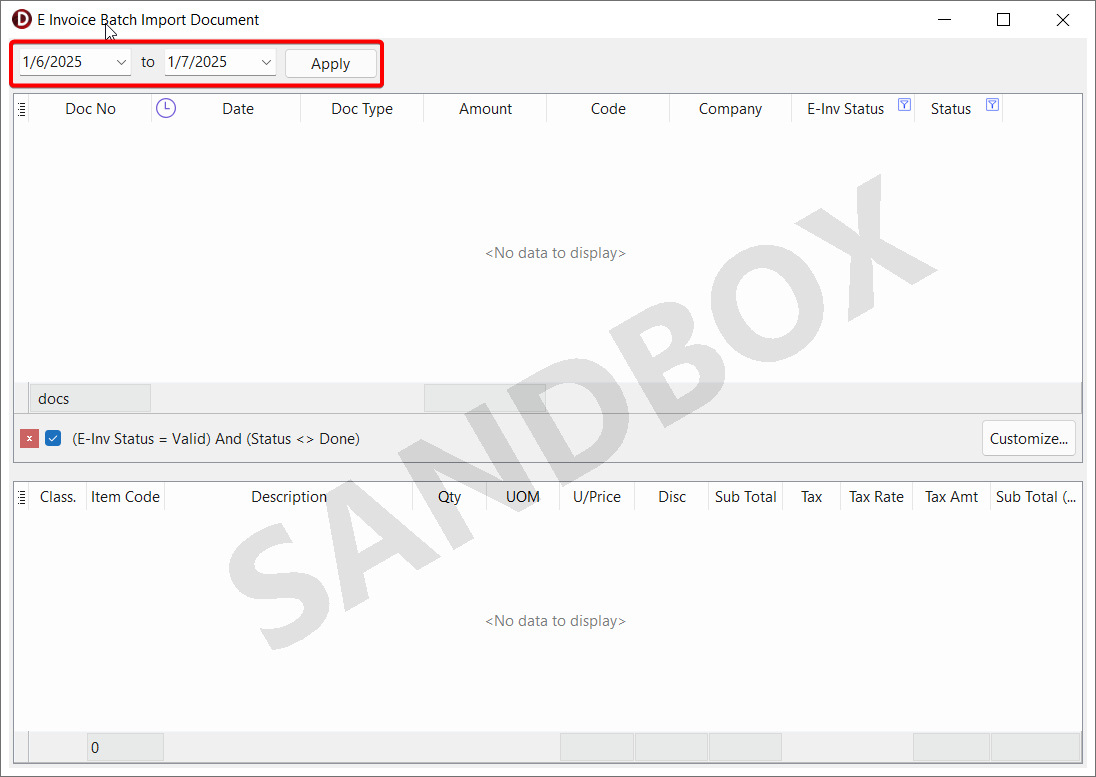
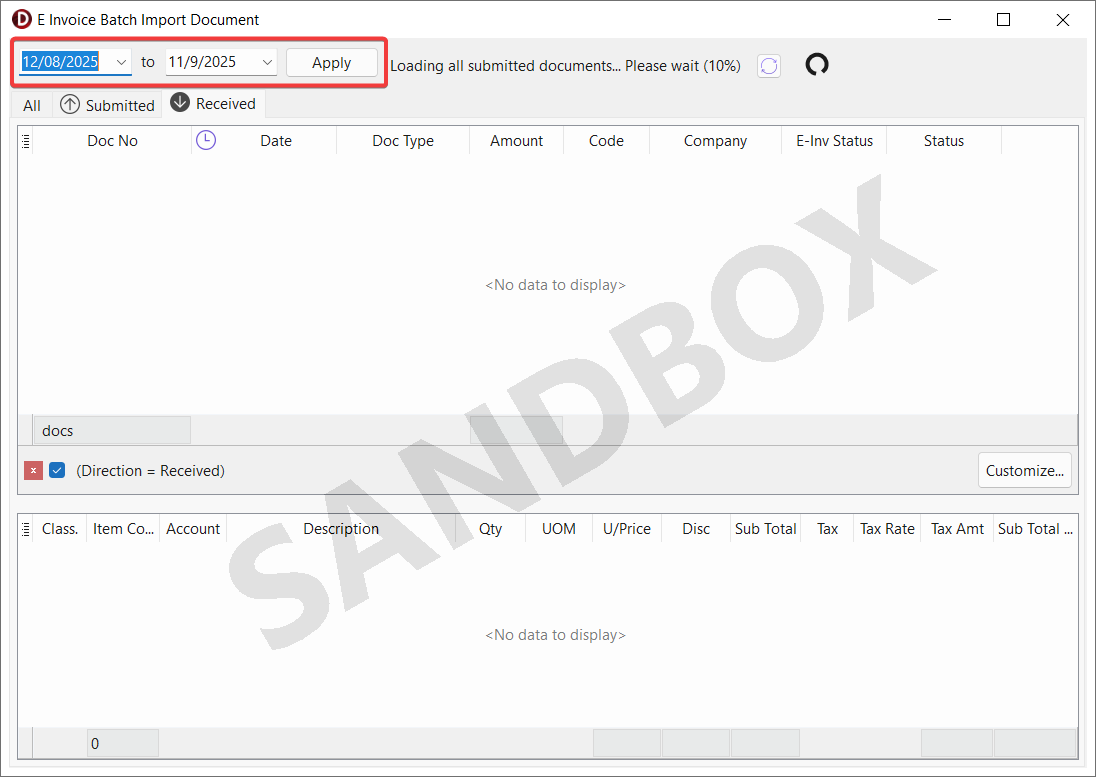
feat: add myinvois transaction guide

diff --git a/docs/usage/myinvois/einvoice-operation.md b/docs/usage/myinvois/einvoice-operation.md
@@ -216,6 +216,81 @@ You can view all past submission and cancellation log of an invoice.
 
     ![sales-invoice-log](../../../static/img/myinvois/einvoice/sales-invoice-log.png)
 
+## Transaction
+
+MyInvois Transaction is a feature that will list all MyInvois documents.
+
+You can access MyInvois Transaction from cloud category in menu bar.
+
+![myinvois-trans-location](../../../static/img/myinvois/einvoice/myinvois-trans-location.png)
+
+Below show the MyInvois Transaction form with 3 tabs.
+
+![myinvois-trans-overview](../../../static/img/myinvois/einvoice/myinvois-trans-overview.png)
+
+1. All - List all MyInvois documents.
+2. Submitted - List MyInvois documents that you submitted.
+3. Received - List MyInvois documents that you received.
+
+MyInvois Transaction feature:
+
+1. ### Sync MyInvois documents
+
+    ![myinvois-trans-sync](../../../static/img/myinvois/einvoice/myinvois-trans-sync.png)
+
+    - SQL Account will help sync MyInvois documents from MyInvois portal in background when **MyInvois Transaction** or [**Import**](#import) form is opened.
+    - There are 2 kinds of sync task:
+        - **Loading all documents** - Sync all MyInvois documents starting from the latest and going back to 1 Aug 2024 for first time only, it may takes a long time to complete.
+        - **Syncing recent documents** - Sync recent documents only.
+    - After sync task is completed, it will show **Last Sync**.
+    - SQL Account will resync after 30 minutes or you can force resync instantly by clicking resync button.
+
+        ![myinvois-trans-resync](../../../static/img/myinvois/einvoice/myinvois-trans-resync.png)
+
+    - Click refresh button to query MyInvois documents synced from MyInvois portal into your database.
+
+        ![myinvois-trans-refresh](../../../static/img/myinvois/einvoice/myinvois-trans-refresh.png)
+
+    :::info[NOTE]
+    You may leave MyInvois Transaction or Import form open in the background to sync documents as you carry on with other tasks.
+    :::
+
+2. ### Check Invoice State
+
+    You can find the **Invoice state** column in field chooser.
+
+        ![myinvois-trans-state](../../../static/img/myinvois/einvoice/myinvois-trans-state.png)
+
+    There are 3 Invoice state:
+
+        - **None** - The document has no issues.
+        - **Missing** (Highlighted in **red** for submitted documents) - The document exists in MyInvois portal, but does not exists in your accounting document entry.
+        - **Duplicate** (Highlighted in **orange** for submitted documents) - The document is a duplicate submissions.
+
+    :::info[NOTE]
+    You may double click to drill down to your accounting document entry.
+    :::
+
+3. ### Cancel / Reject
+
+    - Click cancel to initiate document cancellation on submitted document.
+
+        ![myinvois-trans-cancel](../../../static/img/myinvois/einvoice/myinvois-trans-cancel.png)
+
+    - Click reject to inititate document rejection on received document
+
+        ![myinvois-trans-reject](../../../static/img/myinvois/einvoice/myinvois-trans-reject.png)
+
+    :::info[NOTE]
+    You can batch cancel or reject by selecting multiple documents.
+    :::
+
+4. ### Print
+
+    Click the **print / preview** to print report using field value from MyInvois document.
+
+        ![myinvois-trans-print](../../../static/img/myinvois/einvoice/myinvois-trans-print.png)
+
 ## Import
 
 SQL Account offers two methods for importing sales or purchase documents from the E-Invoice system:
@@ -248,18 +323,22 @@ You can view all received documents and batch import into SQL Account.
 
     ![purchase-invoice-batch-import-form](../../../static/img/myinvois/einvoice/purchase-invoice-batch-import-form.png)
 
-2. Choose the desired date range and press the **Apply** button to filter the documents
+2. Opening Import form will also start [Sync MyInvois documents](#sync-myinvois-documents). The first sync may take longer as it syncs documents from latest to oldest. Please wait if you need to import older documents.
+
+    ![purchase-invoice-batch-import-sync](../../../static/img/myinvois/einvoice/purchase-invoice-batch-import-sync.png)
+
+3. Choose the desired date range and click the **Apply** to query documents already synced to your database. Unsynced documents will not appear.
 
     ![purchase-invoice-batch-import-form-daterange](../../../static/img/myinvois/einvoice/purchase-invoice-batch-import-form-daterange.png)
 
-3. There are two tables inside the form:
+4. There are two tables inside the form:
 
     - The upper table will display the list of E-Invoice documents your company has received
     - The lower table will show the item details for the document you have selected
 
     ![purchase-invoice-batch-import-form-apply](../../../static/img/myinvois/einvoice/purchase-invoice-batch-import-form-apply.png)
 
-4. Each document will display a status in the **Status** column. Below is the description and import action of each status:
+5. Each document will display a status in the **Status** column. Below is the description and import action of each status:
 
     | Status         | Description                                         | Action                          |
     | -------------- | --------------------------------------------------- | ------------------------------- |
@@ -272,22 +351,22 @@ You can view all received documents and batch import into SQL Account.
     Double-clicking a row will drill down into the existing document, while double-clicking the **E-Invoice Status** column will open the validation link
     :::
 
-5. SQL Account will auto-map the Customer/Supplier Code using the following conditions:
+6. SQL Account will auto-map the Customer/Supplier Code using the following conditions:
 
     - Same **TIN** (prioritized)
     - Same **ID Number** or similar **Company Name**
 
     ![purchase-invoice-batch-import-form-select-supplier](../../../static/img/myinvois/einvoice/purchase-invoice-batch-import-form-select-supplier.png)
 
-6. A tax code is required for an item if the tax amount is greater than 0
+7. A tax code is required for an item if the tax amount is greater than 0
 
     ![purchase-invoice-batch-import-form-select-tax](../../../static/img/myinvois/einvoice/purchase-invoice-batch-import-form-select-tax.png)
 
-7. You may click on the **Import** button to proceed with the import
+8. You may click on the **Import** button to proceed with the import
 
     ![purchase-invoice-batch-import](../../../static/img/myinvois/einvoice/purchase-invoice-batch-import.png)
 
-8. A message dialog  will indicate success or display an error, if any
+9. A message dialog  will indicate success or display an error, if any
 
     ![purchase-invoice-batch-import-success](../../../static/img/myinvois/einvoice/purchase-invoice-batch-import-success.png)
 
